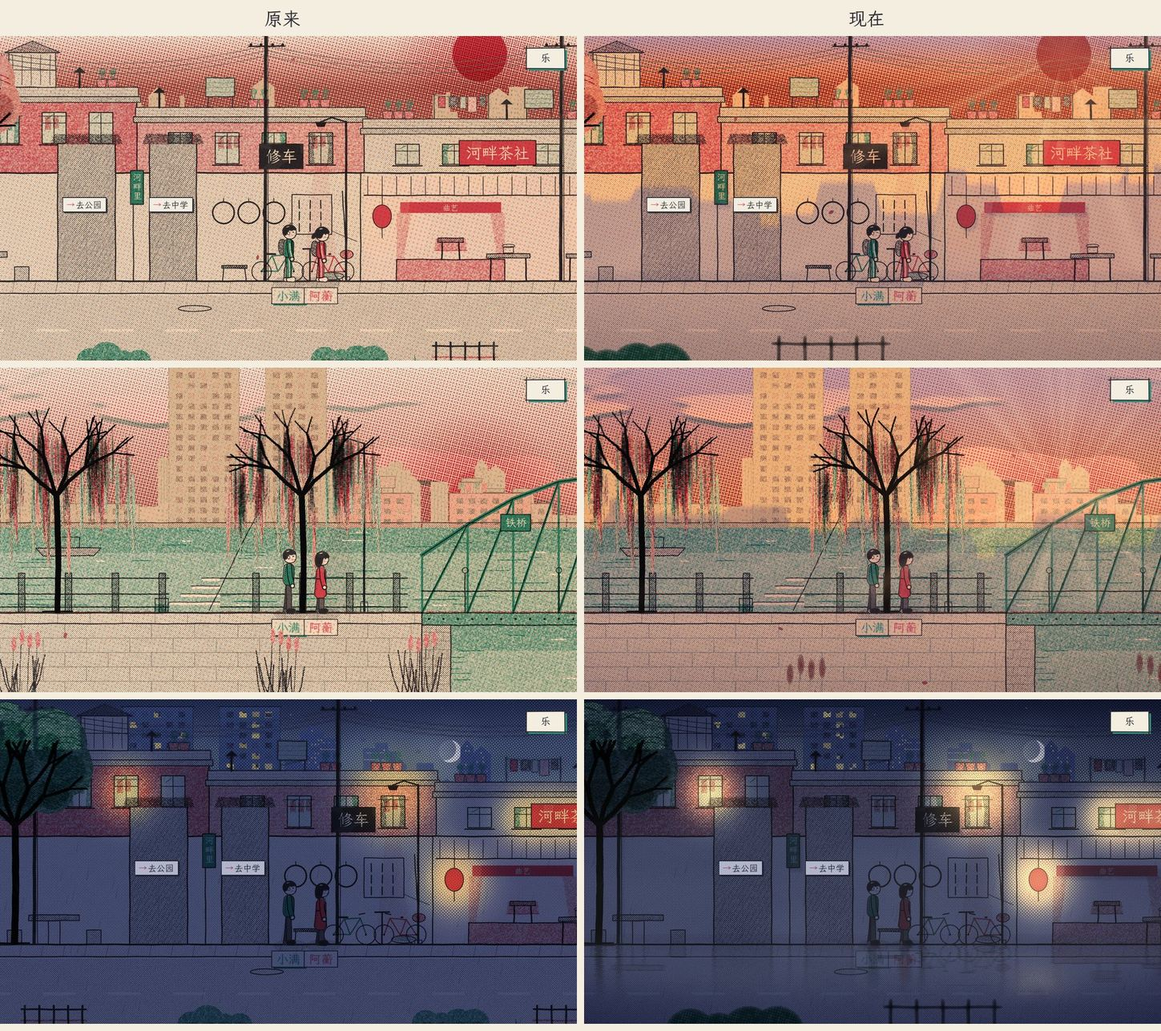
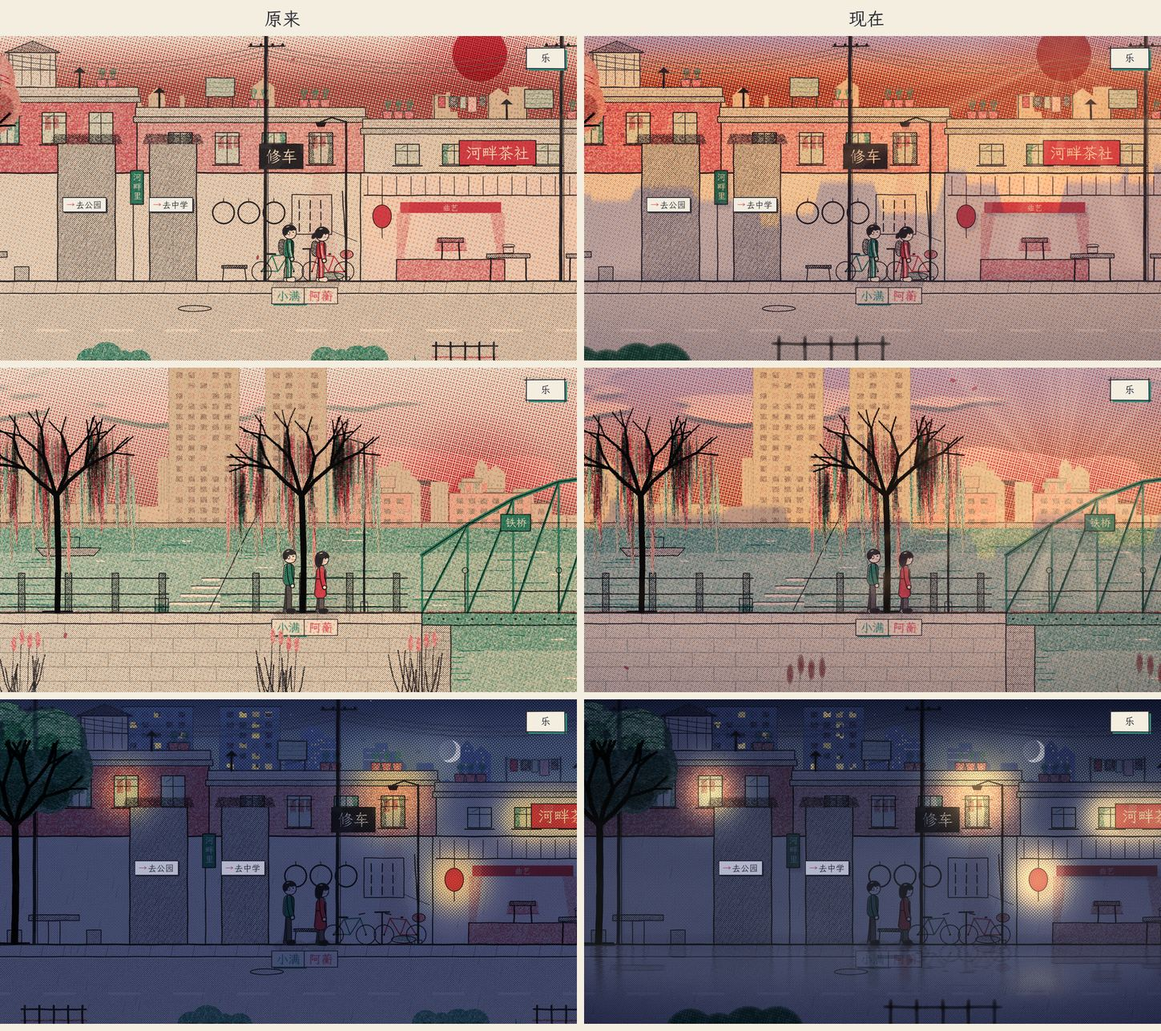
光与空气：评审跟进
- 手机上帧率连续 4 秒低于 42 就整层收起来（atmos.auto_off）；strength 注释改对
- 雪天不映倒影（wet 只在下雨时给满）
- 白天的暖调收一点，不发黄
- scenes.py：图变窄、切片变少时多出来的 .import 一起删
- 对比图换成这一版

diff --git a/tools/art/scenes.py b/tools/art/scenes.py
@@ -2324,15 +2324,14 @@ def build(ids, scale=ART_SCALE):
         json.dump({"slice": SLICE, "top": TOP, "bottom": BOTTOM, "scale": ART_SCALE, "scenes": allanch}, f, ensure_ascii=False, separators=(",", ":"))
     for sid in ids:
         sc = scenes[sid]
-        # 先看清有哪些切片，再删：.import 留着（删了 UID 会变），只删已经没有对应切片的。
-        # （原来边删边查，listdir 的次序先删了 png 就会把它的 .import 当成孤儿一起删掉）
-        names = set(os.listdir(OUT))
-        for f in sorted(names):
-            if f.startswith(sid + "_") and (f.endswith(".png") or f.endswith(".png.import")):
-                if f.endswith(".import") and f[: -len(".import")] in names:
-                    continue
-                os.remove(os.path.join(OUT, f))
+        # 重印前删旧切片；这回还会印出来的切片和 mask 的 .import 留着（删了 UID 会变），
+        # 图变窄、切片变少，多出来的 .import 一起删。（原来边删边查「png 还在不在」，
+        # listdir 先删了 png 就会把它的 .import 当成孤儿一起删掉）
         n = math.ceil(sc["width"] / SLICE)
+        keep = {f"{sid}_{k}.png.import" for k in range(n)} | {f"{sid}_mask.png.import"}
+        for f in sorted(os.listdir(OUT)):
+            if f.startswith(sid + "_") and (f.endswith(".png") or f.endswith(".png.import")) and f not in keep:
+                os.remove(os.path.join(OUT, f))
         masks = []
         for k in range(n):
             arr = render(sc, k * SLICE, SLICE, scale)
